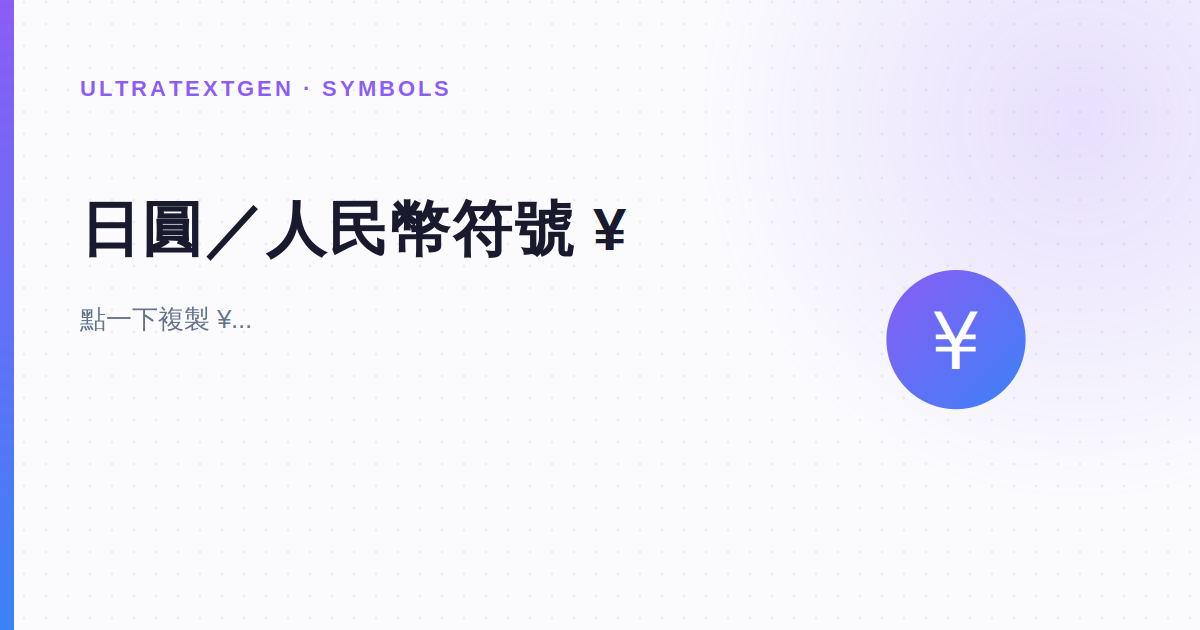
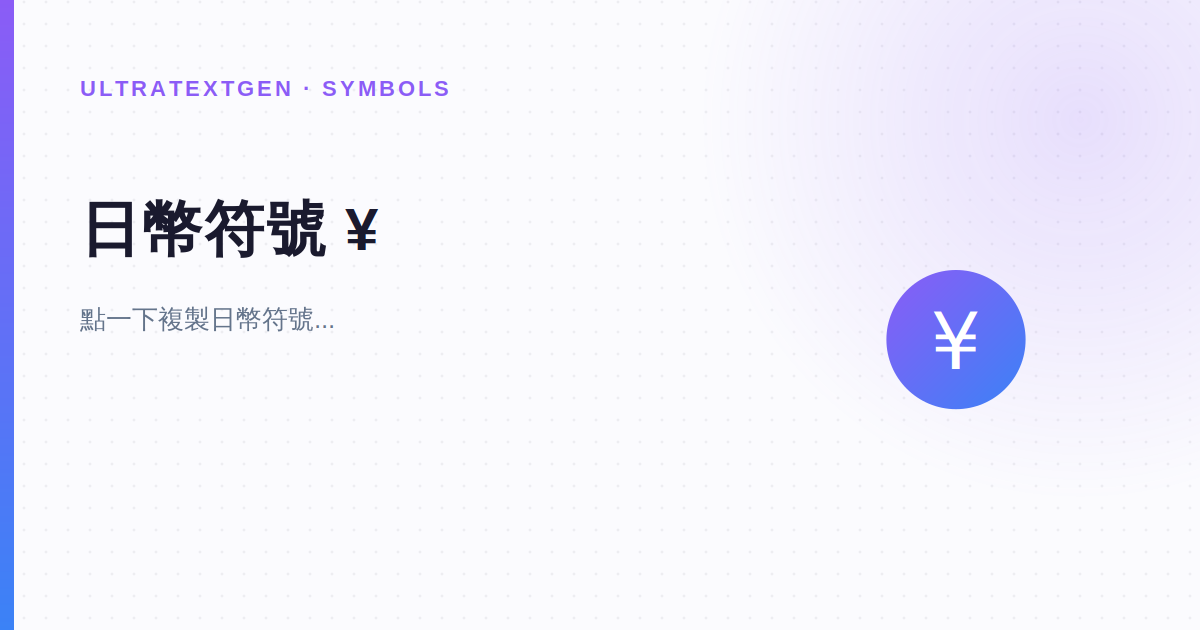
fix(zh-tw): retarget the yen symbol page onto 日幣, the term TW actually searches
zh-tw/symbol/yen-sign/ shipped two days ago titled 「日圓／人民幣符號」, using only
the formal written name. The TW head term for that page is 日幣符號 at 12,100/mo
(Semrush db=tw, top keyword for tw.piliapp.com/symbols/yen/). Same failure as the
facebook-fuhao page: correct vocabulary, wrong register for the market.

- title/H1/meta/breadcrumb lead with 日幣符號; the title's second clause keeps
  日圓 and 人民幣 so both names are on the page
- the intro now explains the split outright (日幣 is what people say and shop in,
  日圓/JPY is the formal written form, same currency, same character) — this is
  the actual confusion behind the query, not just a keyword swap
- ¥ tile labels and the related card on the six sibling currency pages and on
  zh-tw/symbol/index.html updated to match

日圓 is deliberately kept, not stripped: it is the correct formal term and a
reader arriving on either name has to find the other.

Deliberately NOT changed in the same pass: zh-tw/symbol/won-sign/ is titled
韓元符號 and the parallel colloquial form 韓幣 is the obvious next instance of
this pattern — but 韓元 also draws real volume in the same export, so the two may
not split the way 日幣/日圓 does. It gets its own check rather than being swept
along by analogy.

Claude-Session: https://claude.ai/code/session_01GVYuYpJjg1QqCjDR1xqujq

Changed region(s): [[0.1233, 0.3016, 0.5242, 0.4222], [0.1542, 0.4825, 0.2775, 0.5429]]

diff --git a/zh-tw/symbol/yen-sign/index.html b/zh-tw/symbol/yen-sign/index.html
@@ -13,8 +13,8 @@
 <meta charset="UTF-8">
 <meta name="viewport" content="width=device-width, initial-scale=1.0">
 
-<title>日圓／人民幣符號 ¥：複製貼上與輸入方式 | UltraTextGen</title>
-<meta name="description" content="點一下複製 ¥ 符號，日圓與人民幣共用同一個字元；附 Alt 代碼、Mac 快捷鍵與 HTML 寫法。">
+<title>日幣符號 ¥：複製貼上、日圓與人民幣的差別 | UltraTextGen</title>
+<meta name="description" content="點一下複製日幣符號 ¥。日幣（日圓）和人民幣共用同一個字元，這裡說明怎麼分辨，附 Alt 代碼、Mac 快捷鍵與 HTML 寫法。">
 
 <link rel="canonical" href="https://ultratextgen.com/zh-tw/symbol/yen-sign/">
 <link rel="alternate" hreflang="en" href="https://ultratextgen.com/symbol/yen-sign/">
@@ -38,11 +38,11 @@
 <link rel="alternate" hreflang="x-default" href="https://ultratextgen.com/symbol/yen-sign/">
 <meta property="og:image" content="https://ultratextgen.com/assets/og/zh-tw-symbol-yen-sign.png">
 <meta name="twitter:card" content="summary_large_image">
-<meta name="twitter:title" content="日圓／人民幣符號 ¥：複製貼上與輸入方式 | UltraTextGen">
-<meta name="twitter:description" content="點一下複製 ¥ 符號，日圓與人民幣共用同一個字元；附 Alt 代碼、Mac 快捷鍵與 HTML 寫法。">
+<meta name="twitter:title" content="日幣符號 ¥：複製貼上、日圓與人民幣的差別 | UltraTextGen">
+<meta name="twitter:description" content="點一下複製日幣符號 ¥。日幣（日圓）和人民幣共用同一個字元，這裡說明怎麼分辨，附 Alt 代碼、Mac 快捷鍵與 HTML 寫法。">
 <meta name="twitter:image" content="https://ultratextgen.com/assets/og/zh-tw-symbol-yen-sign.png">
-<meta property="og:title" content="日圓／人民幣符號 ¥：複製貼上與輸入方式 | UltraTextGen">
-<meta property="og:description" content="點一下複製 ¥ 符號，日圓與人民幣共用同一個字元；附 Alt 代碼、Mac 快捷鍵與 HTML 寫法。">
+<meta property="og:title" content="日幣符號 ¥：複製貼上、日圓與人民幣的差別 | UltraTextGen">
+<meta property="og:description" content="點一下複製日幣符號 ¥。日幣（日圓）和人民幣共用同一個字元，這裡說明怎麼分辨，附 Alt 代碼、Mac 快捷鍵與 HTML 寫法。">
 <meta property="og:type" content="article">
 <meta property="og:url" content="https://ultratextgen.com/zh-tw/symbol/yen-sign/">
 
@@ -56,8 +56,8 @@
 {
   "@context": "https://schema.org",
   "@type": "Article",
-  "headline": "日圓／人民幣符號 ¥：複製貼上與輸入方式 | UltraTextGen",
-  "description": "點一下複製 ¥ 符號，日圓與人民幣共用同一個字元；附 Alt 代碼、Mac 快捷鍵與 HTML 寫法。",
+  "headline": "日幣符號 ¥：複製貼上、日圓與人民幣的差別 | UltraTextGen",
+  "description": "點一下複製日幣符號 ¥。日幣（日圓）和人民幣共用同一個字元，這裡說明怎麼分辨，附 Alt 代碼、Mac 快捷鍵與 HTML 寫法。",
   "author": {
     "@type": "Organization",
     "name": "UltraTextGen",
@@ -94,7 +94,7 @@
     {
       "@type": "ListItem",
       "position": 3,
-      "name": "日圓符號",
+      "name": "日幣符號",
       "item": "https://ultratextgen.com/zh-tw/symbol/yen-sign/"
     }
   ]
@@ -111,32 +111,32 @@
 <!-- HERO -->
 <section class="hero">
   <div class="hero-inner">
-    <h1 class="hero-headline">日圓／人民幣符號（¥）</h1>
-    <p class="hero-tagline">¥ 同時代表日圓和人民幣——點一下就複製。</p>
+    <h1 class="hero-headline">日幣符號（¥）</h1>
+    <p class="hero-tagline">¥ 同時代表日幣和人民幣——點一下就複製。</p>
   </div>
 </section>
 
 <!-- INTRO -->
 <section class="editorial-section">
   <div class="editorial-block">
-    <p>¥（U+00A5，YEN SIGN）在 Unicode 裡是「日圓符號」，但實務上日圓（JPY）和人民幣（CNY）共用這一個字元——兩者的名稱在日文和中文裡都寫作「圓/元」，歷史上同源。要明確區分時，慣例是寫成 JP¥ 和 CN¥，或直接用 ISO 代碼 JPY／CNY。輸入方式：Windows 按住 Alt 再輸入 0165，Mac 用 Option+Y，HTML 寫成 &amp;yen;。</p>
+    <p>¥（U+00A5，YEN SIGN）就是一般說的日幣符號。「日幣」是台灣日常和購物情境最常用的說法，正式書面則寫「日圓」（貨幣代碼 JPY），兩者指的是同一種貨幣、同一個字元。要注意的是實務上日圓（JPY）和人民幣（CNY）共用這個字元——兩者的名稱在日文和中文裡都寫作「圓/元」，歷史上同源。要明確區分時，慣例是寫成 JP¥ 和 CN¥，或直接用 ISO 代碼 JPY／CNY。輸入方式：Windows 按住 Alt 再輸入 0165，Mac 用 Option+Y，HTML 寫成 &amp;yen;。</p>
   </div>
 </section>
 
 <div class="section-divider"></div>
 
 <section class="mood-explainers" id="yen-sign-symbol">
-  <span class="article-section-label">日圓／人民幣符號</span>
-  <h2>日圓／人民幣符號</h2>
+  <span class="article-section-label">日幣／人民幣符號</span>
+  <h2>日幣／人民幣符號</h2>
   <p class="u-secondary-tight">本體與雙橫線變體，兩種寫法都通用。</p>
   <div class="flag-rows">
     <div class="flag-row">
-      <button class="flag-emoji symbol-tile" data-symbol="¥" aria-label="Copy 日圓符號（U+00A5）">¥</button>
-      <span class="flag-label">日圓符號（U+00A5）</span>
+      <button class="flag-emoji symbol-tile" data-symbol="¥" aria-label="Copy 日幣符號（U+00A5）">¥</button>
+      <span class="flag-label">日幣符號（U+00A5）</span>
     </div>
     <div class="flag-row">
-      <button class="flag-emoji symbol-tile" data-symbol="￥" aria-label="Copy 全形日圓符號（U+FFE5）——CJK 排版常用">￥</button>
-      <span class="flag-label">全形日圓符號（U+FFE5）——CJK 排版常用</span>
+      <button class="flag-emoji symbol-tile" data-symbol="￥" aria-label="Copy 全形日幣符號（U+FFE5）——CJK 排版常用">￥</button>
+      <span class="flag-label">全形日幣符號（U+FFE5）——CJK 排版常用</span>
     </div>
   </div>
 </section>

diff --git a/zh-tw/symbol/won-sign/index.html b/zh-tw/symbol/won-sign/index.html
@@ -14,7 +14,7 @@
 <meta name="viewport" content="width=device-width, initial-scale=1.0">
 
 <title>韓元符號 ₩：複製貼上與輸入方式 | UltraTextGen</title>
-<meta name="description" content="點一下複製韓元符號 ₩，附 Alt 代碼、HTML 寫法，以及日圓、歐元等其他貨幣符號。">
+<meta name="description" content="點一下複製韓元符號 ₩，附 Alt 代碼、HTML 寫法，以及日幣、歐元等其他貨幣符號。">
 
 <link rel="canonical" href="https://ultratextgen.com/zh-tw/symbol/won-sign/">
 <link rel="alternate" hreflang="en" href="https://ultratextgen.com/symbol/won-sign/">
@@ -39,10 +39,10 @@
 <meta property="og:image" content="https://ultratextgen.com/assets/og/zh-tw-symbol-won-sign.png">
 <meta name="twitter:card" content="summary_large_image">
 <meta name="twitter:title" content="韓元符號 ₩：複製貼上與輸入方式 | UltraTextGen">
-<meta name="twitter:description" content="點一下複製韓元符號 ₩，附 Alt 代碼、HTML 寫法，以及日圓、歐元等其他貨幣符號。">
+<meta name="twitter:description" content="點一下複製韓元符號 ₩，附 Alt 代碼、HTML 寫法，以及日幣、歐元等其他貨幣符號。">
 <meta name="twitter:image" content="https://ultratextgen.com/assets/og/zh-tw-symbol-won-sign.png">
 <meta property="og:title" content="韓元符號 ₩：複製貼上與輸入方式 | UltraTextGen">
-<meta property="og:description" content="點一下複製韓元符號 ₩，附 Alt 代碼、HTML 寫法，以及日圓、歐元等其他貨幣符號。">
+<meta property="og:description" content="點一下複製韓元符號 ₩，附 Alt 代碼、HTML 寫法，以及日幣、歐元等其他貨幣符號。">
 <meta property="og:type" content="article">
 <meta property="og:url" content="https://ultratextgen.com/zh-tw/symbol/won-sign/">
 
@@ -57,7 +57,7 @@
   "@context": "https://schema.org",
   "@type": "Article",
   "headline": "韓元符號 ₩：複製貼上與輸入方式 | UltraTextGen",
-  "description": "點一下複製韓元符號 ₩，附 Alt 代碼、HTML 寫法，以及日圓、歐元等其他貨幣符號。",
+  "description": "點一下複製韓元符號 ₩，附 Alt 代碼、HTML 寫法，以及日幣、歐元等其他貨幣符號。",
   "author": {
     "@type": "Organization",
     "name": "UltraTextGen",
@@ -119,7 +119,7 @@
 <!-- INTRO -->
 <section class="editorial-section">
   <div class="editorial-block">
-    <p>₩（U+20A9，WON SIGN）是韓國貨幣韓元的符號，字形是拉丁字母 W 加上兩條橫線——和日圓 ¥、歐元 € 一樣，用橫線標示貨幣的視覺慣例。南韓（KRW）和北韓（KPW）都使用這個符號。台灣使用者最常在韓國旅遊記帳、代購比價和韓網購物時需要它。HTML 寫成 &amp;#8361;。</p>
+    <p>₩（U+20A9，WON SIGN）是韓國貨幣韓元的符號，字形是拉丁字母 W 加上兩條橫線——和日幣 ¥、歐元 € 一樣，用橫線標示貨幣的視覺慣例。南韓（KRW）和北韓（KPW）都使用這個符號。台灣使用者最常在韓國旅遊記帳、代購比價和韓網購物時需要它。HTML 寫成 &amp;#8361;。</p>
   </div>
 </section>
 
@@ -149,8 +149,8 @@
   <p class="u-secondary-tight">亞洲旅遊比價常一起出現的符號。</p>
   <div class="flag-rows">
     <div class="flag-row">
-      <button class="flag-emoji symbol-tile" data-symbol="¥" aria-label="Copy 日圓／人民幣">¥</button>
-      <span class="flag-label">日圓／人民幣</span>
+      <button class="flag-emoji symbol-tile" data-symbol="¥" aria-label="Copy 日幣／人民幣">¥</button>
+      <span class="flag-label">日幣／人民幣</span>
     </div>
     <div class="flag-row">
       <button class="flag-emoji symbol-tile" data-symbol="€" aria-label="Copy 歐元">€</button>
@@ -201,8 +201,8 @@
   <span class="article-section-label">Related Resources</span>
   <div class="compare-grid">
     <a href="/zh-tw/symbol/yen-sign/" class="compare-card variant-muted u-no-underline">
-      <h4>日圓符號（¥）</h4>
-      <p>日圓與人民幣共用的貨幣符號。</p>
+      <h4>日幣符號（¥）</h4>
+      <p>日幣（日圓）與人民幣共用的貨幣符號。</p>
     </a>
     <a href="/zh-tw/symbol/euro-sign/" class="compare-card variant-muted u-no-underline">
       <h4>歐元符號（€）</h4>

diff --git a/zh-tw/symbol/euro-sign/index.html b/zh-tw/symbol/euro-sign/index.html
@@ -14,7 +14,7 @@
 <meta name="viewport" content="width=device-width, initial-scale=1.0">
 
 <title>歐元符號 €：複製貼上、Alt 代碼與輸入方式 | UltraTextGen</title>
-<meta name="description" content="點一下複製歐元符號 €，附 Windows Alt+0128、Mac 快捷鍵與 HTML 代碼，以及英鎊、日圓等其他貨幣符號。">
+<meta name="description" content="點一下複製歐元符號 €，附 Windows Alt+0128、Mac 快捷鍵與 HTML 代碼，以及英鎊、日幣等其他貨幣符號。">
 
 <link rel="canonical" href="https://ultratextgen.com/zh-tw/symbol/euro-sign/">
 <link rel="alternate" hreflang="en" href="https://ultratextgen.com/symbol/euro-sign/">
@@ -40,10 +40,10 @@
 <meta property="og:image" content="https://ultratextgen.com/assets/og/zh-tw-symbol-euro-sign.png">
 <meta name="twitter:card" content="summary_large_image">
 <meta name="twitter:title" content="歐元符號 €：複製貼上、Alt 代碼與輸入方式 | UltraTextGen">
-<meta name="twitter:description" content="點一下複製歐元符號 €，附 Windows Alt+0128、Mac 快捷鍵與 HTML 代碼，以及英鎊、日圓等其他貨幣符號。">
+<meta name="twitter:description" content="點一下複製歐元符號 €，附 Windows Alt+0128、Mac 快捷鍵與 HTML 代碼，以及英鎊、日幣等其他貨幣符號。">
 <meta name="twitter:image" content="https://ultratextgen.com/assets/og/zh-tw-symbol-euro-sign.png">
 <meta property="og:title" content="歐元符號 €：複製貼上、Alt 代碼與輸入方式 | UltraTextGen">
-<meta property="og:description" content="點一下複製歐元符號 €，附 Windows Alt+0128、Mac 快捷鍵與 HTML 代碼，以及英鎊、日圓等其他貨幣符號。">
+<meta property="og:description" content="點一下複製歐元符號 €，附 Windows Alt+0128、Mac 快捷鍵與 HTML 代碼，以及英鎊、日幣等其他貨幣符號。">
 <meta property="og:type" content="article">
 <meta property="og:url" content="https://ultratextgen.com/zh-tw/symbol/euro-sign/">
 
@@ -58,7 +58,7 @@
   "@context": "https://schema.org",
   "@type": "Article",
   "headline": "歐元符號 €：複製貼上、Alt 代碼與輸入方式 | UltraTextGen",
-  "description": "點一下複製歐元符號 €，附 Windows Alt+0128、Mac 快捷鍵與 HTML 代碼，以及英鎊、日圓等其他貨幣符號。",
+  "description": "點一下複製歐元符號 €，附 Windows Alt+0128、Mac 快捷鍵與 HTML 代碼，以及英鎊、日幣等其他貨幣符號。",
   "author": {
     "@type": "Organization",
     "name": "UltraTextGen",
@@ -154,8 +154,8 @@
       <span class="flag-label">英鎊</span>
     </div>
     <div class="flag-row">
-      <button class="flag-emoji symbol-tile" data-symbol="¥" aria-label="Copy 日圓／人民幣">¥</button>
-      <span class="flag-label">日圓／人民幣</span>
+      <button class="flag-emoji symbol-tile" data-symbol="¥" aria-label="Copy 日幣／人民幣">¥</button>
+      <span class="flag-label">日幣／人民幣</span>
     </div>
     <div class="flag-row">
       <button class="flag-emoji symbol-tile" data-symbol="₩" aria-label="Copy 韓元">₩</button>
@@ -206,8 +206,8 @@
       <p>英國英鎊的貨幣符號與輸入方式。</p>
     </a>
     <a href="/zh-tw/symbol/yen-sign/" class="compare-card variant-muted u-no-underline">
-      <h4>日圓符號（¥）</h4>
-      <p>日圓與人民幣共用的貨幣符號。</p>
+      <h4>日幣符號（¥）</h4>
+      <p>日幣（日圓）與人民幣共用的貨幣符號。</p>
     </a>
     <a href="/zh-tw/symbol/won-sign/" class="compare-card variant-muted u-no-underline">
       <h4>韓元符號（₩）</h4>

diff --git a/zh-tw/symbol/pound-sign/index.html b/zh-tw/symbol/pound-sign/index.html
@@ -14,7 +14,7 @@
 <meta name="viewport" content="width=device-width, initial-scale=1.0">
 
 <title>英鎊符號 £：複製貼上、Alt 代碼與輸入方式 | UltraTextGen</title>
-<meta name="description" content="點一下複製英鎊符號 £，附 Windows Alt+0163、Mac 快捷鍵與 HTML 代碼，以及歐元、日圓等其他貨幣符號。">
+<meta name="description" content="點一下複製英鎊符號 £，附 Windows Alt+0163、Mac 快捷鍵與 HTML 代碼，以及歐元、日幣等其他貨幣符號。">
 
 <link rel="canonical" href="https://ultratextgen.com/zh-tw/symbol/pound-sign/">
 <link rel="alternate" hreflang="en" href="https://ultratextgen.com/symbol/pound-sign/">
@@ -40,10 +40,10 @@
 <meta property="og:image" content="https://ultratextgen.com/assets/og/zh-tw-symbol-pound-sign.png">
 <meta name="twitter:card" content="summary_large_image">
 <meta name="twitter:title" content="英鎊符號 £：複製貼上、Alt 代碼與輸入方式 | UltraTextGen">
-<meta name="twitter:description" content="點一下複製英鎊符號 £，附 Windows Alt+0163、Mac 快捷鍵與 HTML 代碼，以及歐元、日圓等其他貨幣符號。">
+<meta name="twitter:description" content="點一下複製英鎊符號 £，附 Windows Alt+0163、Mac 快捷鍵與 HTML 代碼，以及歐元、日幣等其他貨幣符號。">
 <meta name="twitter:image" content="https://ultratextgen.com/assets/og/zh-tw-symbol-pound-sign.png">
 <meta property="og:title" content="英鎊符號 £：複製貼上、Alt 代碼與輸入方式 | UltraTextGen">
-<meta property="og:description" content="點一下複製英鎊符號 £，附 Windows Alt+0163、Mac 快捷鍵與 HTML 代碼，以及歐元、日圓等其他貨幣符號。">
+<meta property="og:description" content="點一下複製英鎊符號 £，附 Windows Alt+0163、Mac 快捷鍵與 HTML 代碼，以及歐元、日幣等其他貨幣符號。">
 <meta property="og:type" content="article">
 <meta property="og:url" content="https://ultratextgen.com/zh-tw/symbol/pound-sign/">
 
@@ -58,7 +58,7 @@
   "@context": "https://schema.org",
   "@type": "Article",
   "headline": "英鎊符號 £：複製貼上、Alt 代碼與輸入方式 | UltraTextGen",
-  "description": "點一下複製英鎊符號 £，附 Windows Alt+0163、Mac 快捷鍵與 HTML 代碼，以及歐元、日圓等其他貨幣符號。",
+  "description": "點一下複製英鎊符號 £，附 Windows Alt+0163、Mac 快捷鍵與 HTML 代碼，以及歐元、日幣等其他貨幣符號。",
   "author": {
     "@type": "Organization",
     "name": "UltraTextGen",
@@ -154,8 +154,8 @@
       <span class="flag-label">歐元</span>
     </div>
     <div class="flag-row">
-      <button class="flag-emoji symbol-tile" data-symbol="¥" aria-label="Copy 日圓／人民幣">¥</button>
-      <span class="flag-label">日圓／人民幣</span>
+      <button class="flag-emoji symbol-tile" data-symbol="¥" aria-label="Copy 日幣／人民幣">¥</button>
+      <span class="flag-label">日幣／人民幣</span>
     </div>
     <div class="flag-row">
       <button class="flag-emoji symbol-tile" data-symbol="$" aria-label="Copy 美元">$</button>
@@ -206,8 +206,8 @@
       <p>歐盟歐元的貨幣符號。</p>
     </a>
     <a href="/zh-tw/symbol/yen-sign/" class="compare-card variant-muted u-no-underline">
-      <h4>日圓符號（¥）</h4>
-      <p>日圓與人民幣共用的貨幣符號。</p>
+      <h4>日幣符號（¥）</h4>
+      <p>日幣（日圓）與人民幣共用的貨幣符號。</p>
     </a>
     <a href="/zh-tw/symbol/cent-sign/" class="compare-card variant-muted u-no-underline">
       <h4>分符號（¢）</h4>

diff --git a/zh-tw/symbol/index.html b/zh-tw/symbol/index.html
@@ -72,6 +72,7 @@ window.__h82AlnkH6D91__("WyJwdWItODI0MjMyNDE2NDQxMzk0NSIsW251bGwsbnVsbCxudWxsLCJ
 <link rel="alternate" hreflang="tr" href="https://ultratextgen.com/tr/symbol/">
 <link rel="alternate" hreflang="vi" href="https://ultratextgen.com/vi/symbol/">
 <link rel="alternate" hreflang="zh-TW" href="https://ultratextgen.com/zh-tw/symbol/">
+<link rel="alternate" hreflang="zh-TW" href="https://ultratextgen.com/zh-tw/symbol/">
 <link rel="alternate" hreflang="x-default" href="https://ultratextgen.com/symbol/">
 <meta property="og:image" content="https://ultratextgen.com/assets/og/zh-tw-symbol.png">
 <meta property="og:image:alt" content="符號大全 — 每個 Unicode 符號的完整說明">
@@ -165,8 +166,8 @@ window.__h82AlnkH6D91__("WyJwdWItODI0MjMyNDE2NDQxMzk0NSIsW251bGwsbnVsbCxudWxsLCJ
       <p>源自拉丁文 libra 的花體 L，最早進入電腦字元集的貨幣符號之一。</p>
     </a>
     <a href="/zh-tw/symbol/yen-sign/" class="compare-card variant-muted u-no-underline">
-      <h4>¥ 日圓／人民幣符號</h4>
-      <p>日圓與人民幣共用同一個字元，要區分時寫 JP¥／CN¥。</p>
+      <h4>¥ 日幣符號</h4>
+      <p>日幣（日圓）與人民幣共用同一個字元，要區分時寫 JP¥／CN¥。</p>
     </a>
     <a href="/zh-tw/symbol/won-sign/" class="compare-card variant-muted u-no-underline">
       <h4>₩ 韓元符號</h4>

diff --git a/zh-tw/symbol/peso-sign/index.html b/zh-tw/symbol/peso-sign/index.html
@@ -149,8 +149,8 @@
   <p class="u-secondary-tight">東南亞旅遊比價常見的貨幣符號。</p>
   <div class="flag-rows">
     <div class="flag-row">
-      <button class="flag-emoji symbol-tile" data-symbol="¥" aria-label="Copy 日圓／人民幣">¥</button>
-      <span class="flag-label">日圓／人民幣</span>
+      <button class="flag-emoji symbol-tile" data-symbol="¥" aria-label="Copy 日幣／人民幣">¥</button>
+      <span class="flag-label">日幣／人民幣</span>
     </div>
     <div class="flag-row">
       <button class="flag-emoji symbol-tile" data-symbol="₩" aria-label="Copy 韓元">₩</button>
@@ -209,8 +209,8 @@
       <p>韓國韓元的貨幣符號。</p>
     </a>
     <a href="/zh-tw/symbol/yen-sign/" class="compare-card variant-muted u-no-underline">
-      <h4>日圓符號（¥）</h4>
-      <p>日圓與人民幣共用的貨幣符號。</p>
+      <h4>日幣符號（¥）</h4>
+      <p>日幣（日圓）與人民幣共用的貨幣符號。</p>
     </a>
     <a href="/zh-tw/library/facebook-fuhao/" class="compare-card variant-muted u-no-underline">
       <h4>Facebook（FB）符號大全</h4>

diff --git a/zh-tw/symbol/bitcoin-symbol/index.html b/zh-tw/symbol/bitcoin-symbol/index.html
@@ -157,8 +157,8 @@
       <span class="flag-label">歐元</span>
     </div>
     <div class="flag-row">
-      <button class="flag-emoji symbol-tile" data-symbol="¥" aria-label="Copy 日圓／人民幣">¥</button>
-      <span class="flag-label">日圓／人民幣</span>
+      <button class="flag-emoji symbol-tile" data-symbol="¥" aria-label="Copy 日幣／人民幣">¥</button>
+      <span class="flag-label">日幣／人民幣</span>
     </div>
     <div class="flag-row">
       <button class="flag-emoji symbol-tile" data-symbol="£" aria-label="Copy 英鎊">£</button>
@@ -209,8 +209,8 @@
       <p>英國英鎊的貨幣符號。</p>
     </a>
     <a href="/zh-tw/symbol/yen-sign/" class="compare-card variant-muted u-no-underline">
-      <h4>日圓符號（¥）</h4>
-      <p>日圓與人民幣共用的貨幣符號。</p>
+      <h4>日幣符號（¥）</h4>
+      <p>日幣（日圓）與人民幣共用的貨幣符號。</p>
     </a>
     <a href="/zh-tw/library/facebook-fuhao/" class="compare-card variant-muted u-no-underline">
       <h4>Facebook（FB）符號大全</h4>

diff --git a/zh-tw/symbol/cent-sign/index.html b/zh-tw/symbol/cent-sign/index.html
@@ -161,8 +161,8 @@
       <span class="flag-label">英鎊</span>
     </div>
     <div class="flag-row">
-      <button class="flag-emoji symbol-tile" data-symbol="¥" aria-label="Copy 日圓／人民幣">¥</button>
-      <span class="flag-label">日圓／人民幣</span>
+      <button class="flag-emoji symbol-tile" data-symbol="¥" aria-label="Copy 日幣／人民幣">¥</button>
+      <span class="flag-label">日幣／人民幣</span>
     </div>
   </div>
 </section>
@@ -209,8 +209,8 @@
       <p>歐盟歐元的貨幣符號。</p>
     </a>
     <a href="/zh-tw/symbol/yen-sign/" class="compare-card variant-muted u-no-underline">
-      <h4>日圓符號（¥）</h4>
-      <p>日圓與人民幣共用的貨幣符號。</p>
+      <h4>日幣符號（¥）</h4>
+      <p>日幣（日圓）與人民幣共用的貨幣符號。</p>
     </a>
     <a href="/zh-tw/library/facebook-fuhao/" class="compare-card variant-muted u-no-underline">
       <h4>Facebook（FB）符號大全</h4>
